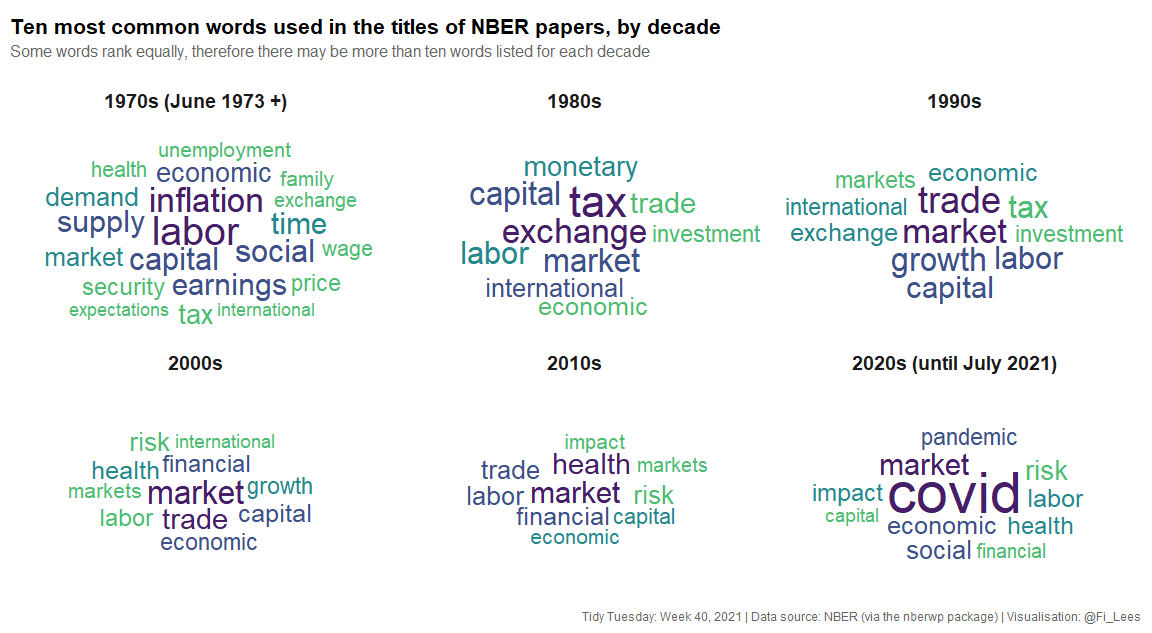
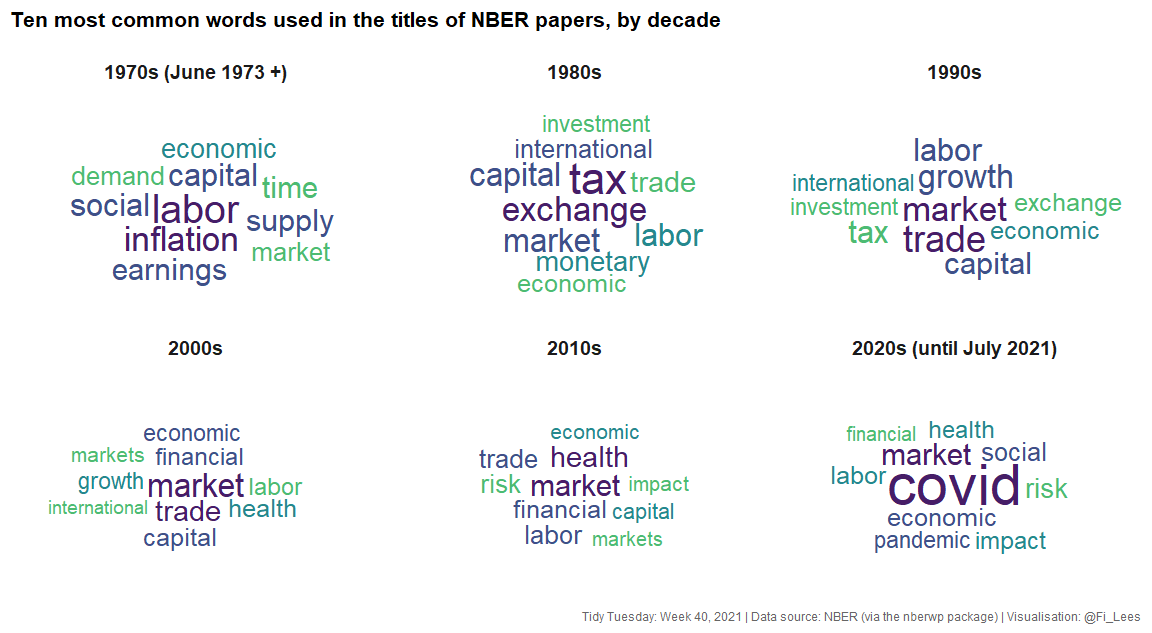
Update to ranking method

diff --git a/TT_2021_W40_NBER/README.md b/TT_2021_W40_NBER/README.md
@@ -179,7 +179,7 @@ title_words %>%
 ```
   
   
-#### Analysis specific stop words
+#### Other stop words
 There are some common words, in addition to classic stop words, that don't tell us much about the subject of a paper. For example, the word 'evidence' appears in a title around twice as often as any other word. I've created a list of these words and have chosen to filter them out for the rest of this analysis. It was quite hard to decide which words to add to this list and which to leave out - subjective decision making. I swithered over the words 'market' and 'markets', but I've left them in the analysis for the moment.
 
 
@@ -238,7 +238,7 @@ summary_by_decade <- title_words_reduced %>%
     word_freq_n = n(),
     word_freq_pct = (word_freq_n / n_papers) 
     ) %>% 
-  mutate(decade_rank = dense_rank(desc(word_freq_n))) %>% 
+  mutate(decade_rank = min_rank(desc(word_freq_n))) %>% 
   arrange(decade, decade_rank) %>% 
   ungroup()
 
@@ -285,8 +285,7 @@ First, set the theme for the visualisations.
 theme_set(theme_minimal())
 
 theme_update(text = element_text(colour = "grey40"),
-             plot.title = element_text(colour = "black", size = 16, face = "bold", margin = margin(t = 5, b = 5)),
-             plot.subtitle = element_text(size = 12, margin = margin(b = 10)),
+             plot.title = element_text(colour = "black", size = 16, face = "bold", margin = margin(t = 5, b = 10)),
              strip.text.x = element_text(size = 12, vjust = 1),
              axis.text = element_text(size = 11),
              axis.title.x = element_text(margin = margin(t = 10, b = 10), hjust = 0.0),
@@ -299,7 +298,7 @@ theme_update(text = element_text(colour = "grey40"),
 
    
 #### Chart 1: Ten most common title words, by decade (number of times used)
-A helpful first draft, but this chart doesn't account for the increasing number of papers published each decade. The bars are also quite 'heavy'. Note that some words were used the same number of times and rank jointly with other words, so there may be more than ten words listed for each decade. I could have used `slice_head()`rather than `filter()` to keep to ten words, but I chose not to. 
+A helpful first draft, but this chart doesn't account for the increasing number of papers published each decade. The bars are also quite 'heavy'. 
 
 
 ```r
@@ -321,7 +320,6 @@ chart_1 <- summary_by_decade %>%
   scale_y_reordered() +
   facet_wrap(~ decade, scales = "free_y", ncol = 3, labeller = labeller(decade = decade_labels)) +
   labs(title = "Ten most common words used in the titles of NBER papers, by decade",
-       subtitle = "Some words rank equally, therefore there may be more than ten words listed for each decade",
        x = "Number of times word was used in a title",
        y = "",
        caption = "Tidy Tuesday: Week 40, 2021 | Data source: NBER (via the nberwp package) | Visualisation: @Fi_Lees")
@@ -329,11 +327,11 @@ chart_1 <- summary_by_decade %>%
 chart_1
 ```
 
-<img src="README_files/figure-html/chart_1-1.png" title="Series of bar charts showing the ten most common words used in the titles of NBER papers in each decade (1970s - 2020s). Data available from June 1973 until July 2021 and presented as the number of times a word was used in a title. Many words are the same in each decade (market, capital), but some new ones have appeared (risk)." alt="Series of bar charts showing the ten most common words used in the titles of NBER papers in each decade (1970s - 2020s). Data available from June 1973 until July 2021 and presented as the number of times a word was used in a title. Many words are the same in each decade (market, capital), but some new ones have appeared (risk)." width="100%" style="display: block; margin: auto;" />
+<img src="README_files/figure-html/chart_1-1.png" title="Series of bar charts showing the ten most common words used in the titles of NBER papers in each decade (1970s - 2020s). Data available from June 1973 until July 2021 and presented as the number of times a word was used in a title. Several words are the same in each decade (e.g. market, labor, economic), but some new ones have appeared (e.g. risk, impact)." alt="Series of bar charts showing the ten most common words used in the titles of NBER papers in each decade (1970s - 2020s). Data available from June 1973 until July 2021 and presented as the number of times a word was used in a title. Several words are the same in each decade (e.g. market, labor, economic), but some new ones have appeared (e.g. risk, impact)." width="100%" style="display: block; margin: auto;" />
 
    
 #### Chart 2: Ten most common title words, by decade (percentage of times used)
-This chart accounts for the increasing number of papers each decade by showing the percentage of titles in which a word was used. I've changed it to a lollipop chart to make it less 'heavy'. I've also colour coded the points according to rank (1-10) just to see how this looks.
+This chart accounts for the increasing number of papers each decade by showing the percentage of titles in which the word was used. I've changed it to a lollipop chart to make it less 'heavy'. I've also colour coded the points according to rank (1-10) just to see how this looks and to tie it in with Chart 3 below.
 
 
 ```r
@@ -344,7 +342,7 @@ chart_2 <- summary_by_decade %>%
   # Lollipop stick
   geom_segment(aes(x = 0, xend = word_freq_pct, y = word, yend = word), colour = "grey") +
   # Lollipop head
-  geom_point(aes(x = word_freq_pct, y = word, colour = decade_rank), size = 3.5) +
+  geom_point(aes(x = word_freq_pct, y = word, colour = decade_rank), size = 3) +
   scale_colour_viridis_b(direction = 1, option = "D", end = 0.8) +
   scale_y_reordered() +
   scale_x_continuous(
@@ -354,7 +352,6 @@ chart_2 <- summary_by_decade %>%
     ) +
   facet_wrap(~ decade, scales = "free_y", ncol = 3, labeller = labeller(decade = decade_labels)) +
   labs(title = "Ten most common words used in the titles of NBER papers, by decade",
-       subtitle = "Some words rank equally, therefore there may be more than ten words listed for each decade",
        x = "Percentage of titles in which word was used",
        y = "",
        caption = "Tidy Tuesday: Week 40, 2021 | Data source: NBER (via the nberwp package) | Visualisation: @Fi_Lees")
@@ -362,13 +359,11 @@ chart_2 <- summary_by_decade %>%
 chart_2
 ```
 
-<img src="README_files/figure-html/chart_2-1.png" title="Series of lollipop charts showing the ten most common words used in the titles of NBER papers in each decade (1970s - 2020s). Data available from June 1973 until July 2021 and presented as the percentage of titles in which a word was used. Many words are the same in each decade (market, capital), but some new ones have appeared (risk)." alt="Series of lollipop charts showing the ten most common words used in the titles of NBER papers in each decade (1970s - 2020s). Data available from June 1973 until July 2021 and presented as the percentage of titles in which a word was used. Many words are the same in each decade (market, capital), but some new ones have appeared (risk)." width="100%" style="display: block; margin: auto;" />
+<img src="README_files/figure-html/chart_2-1.png" title="Series of lollipop charts showing the ten most common words used in the titles of NBER papers in each decade (1970s - 2020s). Data available from June 1973 until July 2021 and presented as the percentage of titles in which a word was used. Several words are the same in each decade (e.g. market, labor, economic), but some new ones have appeared (e.g. risk, impact)." alt="Series of lollipop charts showing the ten most common words used in the titles of NBER papers in each decade (1970s - 2020s). Data available from June 1973 until July 2021 and presented as the percentage of titles in which a word was used. Several words are the same in each decade (e.g. market, labor, economic), but some new ones have appeared (e.g. risk, impact)." width="100%" style="display: block; margin: auto;" />
 
    
 #### Chart 3: Ten most common title words, by decade (word cloud)
-This shows the same information as Chart 2, but in the form of a word cloud. Word clouds don't provide precise information, but they can give you a quick idea of word frequency. Can be useful when precision isn't the goal.  
-
-There are various parameters that can be tweaked to change the look of a word cloud; this [`ggwordcloud` vignette](https://cran.r-project.org/web/packages/ggwordcloud/vignettes/ggwordcloud.html) gives a really helpful overview.
+This shows the same information as Chart 2, but in the form of a word cloud. Word clouds don't provide precise information, but they can give a quick idea of top word use. They can be useful when precision isn't the goal. There are various parameters that can be tweaked to change the look of a word cloud; this [`ggwordcloud` vignette](https://cran.r-project.org/web/packages/ggwordcloud/vignettes/ggwordcloud.html) gives a really helpful overview.
 
 
 ```r
@@ -391,16 +386,15 @@ chart_3 <- summary_by_decade %>%
   scale_size_area(max_size = 15) +
   scale_colour_viridis_b(direction = 1, option = "D", end = 0.8) +
   facet_wrap(~ decade, ncol = 3, labeller = labeller(decade = decade_labels_2)) +
-  theme(plot.subtitle = element_text(margin = margin(b = 20)),
+  theme(plot.title = element_text(margin = margin(b = 20)),
         strip.text.x = element_text(size = 14, face = "bold", vjust = 1)) +
   labs(title = "Ten most common words used in the titles of NBER papers, by decade",
-       subtitle = "Some words rank equally, therefore there may be more than ten words listed for each decade",
        caption = "Tidy Tuesday: Week 40, 2021 | Data source: NBER (via the nberwp package) | Visualisation: @Fi_Lees")
 
 chart_3
 ```
 
-<img src="README_files/figure-html/chart_3-1.png" title="Series of word clouds showing the ten most common words used in the titles of NBER papers in each decade (1970s - 2020s). Data available from June 1973 until July 2021. Many words are the same in each decade (market, capital), but some new ones have appeared (risk)." alt="Series of word clouds showing the ten most common words used in the titles of NBER papers in each decade (1970s - 2020s). Data available from June 1973 until July 2021. Many words are the same in each decade (market, capital), but some new ones have appeared (risk)." width="100%" style="display: block; margin: auto;" />
+<img src="README_files/figure-html/chart_3-1.png" title="Series of word clouds showing the ten most common words used in the titles of NBER papers in each decade (1970s - 2020s). Data available from June 1973 until July 2021. Several words are the same in each decade (e.g. market, labor, economic), but some new ones have appeared (e.g. risk, impact)." alt="Series of word clouds showing the ten most common words used in the titles of NBER papers in each decade (1970s - 2020s). Data available from June 1973 until July 2021. Several words are the same in each decade (e.g. market, labor, economic), but some new ones have appeared (e.g. risk, impact)." width="100%" style="display: block; margin: auto;" />
 
 Save this visualisation:
 
@@ -444,7 +438,6 @@ chart_4 <- top_ten_decade %>%
     legend.title=element_text(size = 12),
     legend.text=element_text(size = 12)) +
   labs(title = "Ten most common words used in the titles of NBER papers, by decade",
-       subtitle = "Some words rank equally, therefore there may be more than ten words listed for each decade",
        x = "Percentage of titles in which word was used",
        y = "",
        colour = "First time in top ten words list? ",
@@ -453,9 +446,9 @@ chart_4 <- top_ten_decade %>%
 chart_4
 ```
 
-<img src="README_files/figure-html/chart_4-1.png" title="Series of lollipop charts showing the ten most common words used in the titles of NBER papers in each decade (1970s - 2020s). Data available from June 1973 until July 2021 and presented as the percentage of titles in which a word was used. New entries to the top ten each decade are highlighted. Many words are the same in each decade (market, capital), but some new ones have appeared (risk)." alt="Series of lollipop charts showing the ten most common words used in the titles of NBER papers in each decade (1970s - 2020s). Data available from June 1973 until July 2021 and presented as the percentage of titles in which a word was used. New entries to the top ten each decade are highlighted. Many words are the same in each decade (market, capital), but some new ones have appeared (risk)." width="100%" style="display: block; margin: auto;" />
+<img src="README_files/figure-html/chart_4-1.png" title="Series of lollipop charts showing the ten most common words used in the titles of NBER papers in each decade (1970s - 2020s). Data available from June 1973 until July 2021 and presented as the percentage of titles in which a word was used. New entries to the top ten each decade are highlighted. Several words are the same in each decade (e.g. market, labor, economic), but some new ones have appeared (e.g. risk, impact)." alt="Series of lollipop charts showing the ten most common words used in the titles of NBER papers in each decade (1970s - 2020s). Data available from June 1973 until July 2021 and presented as the percentage of titles in which a word was used. New entries to the top ten each decade are highlighted. Several words are the same in each decade (e.g. market, labor, economic), but some new ones have appeared (e.g. risk, impact)." width="100%" style="display: block; margin: auto;" />
 
-  
+
 ### Final Notes
 This is a very high level analysis and there are lots of other ways I could have sliced the data and presented it. This is the first time I've tried any text based analysis in R, but I'm looking forward to trying out more sophisticated projects using the `tidytext` package.
 
